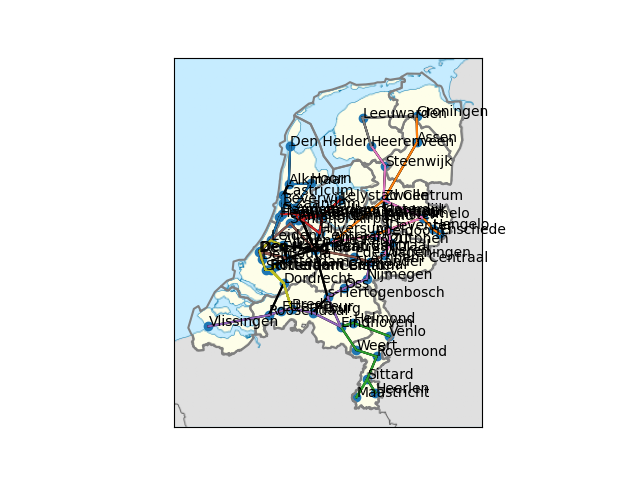
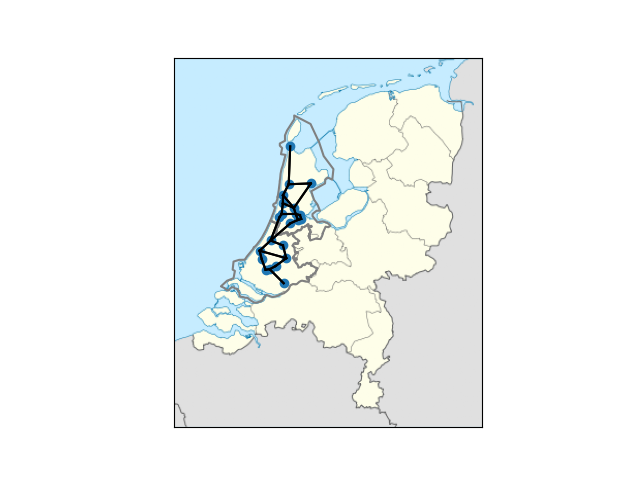
made boxplots for the presentation and pictures of the trajectories to present

Changed region(s): [[0.2812, 0.125, 0.8125, 0.875], [0.3125, 0.7188, 0.375, 0.75], [0.4688, 0.1875, 0.5, 0.2188]]

diff --git a/program/boxplot.py b/program/boxplot.py
@@ -23,63 +23,59 @@ def boxplot(iteration, which_regions = 'holland', start = 'random'):
 
     # run the random algorithm x number of times
     for i in range(iteration):
+        # k = run('greedy_time', which_regions, start)
+        # k1 = run('greedy_conn', which_regions, start)
+        # k2 = run('greedy_time', which_regions, start = 'min_con')
+        # k3 = run('greedy_conn', which_regions, start = 'min_con')
+
+        # k = run('connect', which_regions, start)
+        # k1 = run('connect_with', which_regions, start)
+        # k2 = run('connect', which_regions, start = 'min_con')
+        # k3 = run('connect_with', which_regions, start = 'min_con')
+
         k = run('greedy_time', which_regions, start)
+        k1 = run('greedy_conn', which_regions, start)
+        k2 = run('greedy_time', which_regions, start = 'min_con')
+        k3 = run('greedy_conn', which_regions, start = 'min_con')
 
         # check if the output of the run is viable then append to initialised list
         if k != False:
             solutions.append(k)
             succes += 1
-    
-    # run the random algorithm x number of times
-    for j in range(iteration):
-        k1 = run('greedy_conn', which_regions, start)
-
-        # check if the output of the run is viable then append to initialised list
+        
         if k1 != False:
             solutions1.append(k1)
             succes1 += 1
-    
-    # run the random algorithm x number of times
-    for l in range(iteration):
-        k2 = run('greedy_time', which_regions, start = 'min_con')
-
+        
         # check if the output of the run is viable then append to initialised list
         if k2 != False:
             solutions2.append(k2)
             succes2 += 1
-    
-    # run the random algorithm x number of times
-    for m in range(iteration):
-        k3 = run('greedy_conn', which_regions, start = 'min_con')
-
+        
         # check if the output of the run is viable then append to initialised list
         if k3 != False:
             solutions3.append(k3)
             succes3 += 1
-    
+        
     # calculate the percentage of viable outputted solutions
     percentage_succes = (succes/iteration) * 100
     percentage_succes1 = (succes1/iteration) * 100
     percentage_succes2 = (succes2/iteration) * 100
     percentage_succes3 = (succes3/iteration) * 100
 
-    data = [solutions, solutions1, solutions2, solutions3]
+    data = [solutions, solutions1]
 
     # Creating plot
     plt.boxplot(data, showmeans=True)
 
     # set title and axis descriptions
-    # plt.title(f"Baseline functionality (valid solutions: {percentage_succes} %), {iteration} runs")
+    plt.title(f"Difference in objective function of Random vs Greedy algorithm, for {iteration} runs")
     plt.xlabel("Type algorithm")
     plt.ylabel("K values (objective function output)")
-    plt.xticks([1, 2, 3, 4], [f'Time\n(valid solutions: {percentage_succes})', f'Connections\n(valid solutions: {percentage_succes1})', f'Time +\nstart min con\n(valid solutions: {percentage_succes2})', f'Connections + \nstart min con\n(valid solutions: {percentage_succes3})'])
-
-    # plt.axvline(mean(solutions), color = 'k', linestyle = 'dashed')
-    # min_ylim, max_ylim = plt.ylim()
-    # plt.text(mean(solutions) * 1.01, max_ylim * 0.9, 'Mean: {:.2f}'.format(mean(solutions)))
+    plt.xticks([1, 2], [f'Random algorithm\nRepetition +\nstart min con(valid solutions: {percentage_succes}%)', f'Greedy algorithm\nConnections +\nstart min con\n(valid solutions: {percentage_succes1}%)'])
 
     # save and show the histogram
-    plt.savefig('output/boxplot_greedy.png')
+    plt.savefig('output/boxplot_random_vs_greedy_nl.png')
     plt.show()
 
 def run(algorithm, which_regions = 'holland', start = 'random'):
@@ -123,7 +119,7 @@ def run(algorithm, which_regions = 'holland', start = 'random'):
         trains.append(t.trajectory)
         n.add_trajectory(t)
 
-        if not algorithm == 'hillclimber:'
+        if not algorithm == 'hillclimber':
             # calculate values for the objective function
             p_counter += t.station_counter
             min += t.time
@@ -147,4 +143,5 @@ def run(algorithm, which_regions = 'holland', start = 'random'):
 
         # calculate objective function and return its outcome
         k = p*10000 - (t*100 + min)
+    
     return k

diff --git a/program/visualisation.py b/program/visualisation.py
@@ -8,10 +8,10 @@ def visualize(network, trains, which_region = 'holland'):
 
     if which_region == 'nl':
         geo_json_file = 'data/nl_regions.geojson'
-        save_plot = 'output/holland_plot.png'
+        save_plot = 'output/nl_plot_con.png'
     elif which_region == 'holland':
         geo_json_file ='data/holland_regions.geojson'
-        save_plot = 'output/holland_plot.png'
+        save_plot = 'output/holland_plot_con.png'
     
     # intialize empty lists for the plotting
     names = []
@@ -77,9 +77,9 @@ def visualize(network, trains, which_region = 'holland'):
     x,y = zip(*coords)
     plt.scatter(x, y)
         
-    # add names of the stations to the points
-    for index, label in enumerate(names):
-        plt.annotate(label,(x[index], y[index]))
+    # # add names of the stations to the points
+    # for index, label in enumerate(names):
+    #     plt.annotate(label,(x[index], y[index]))
         
     # save plot
     plt.savefig(save_plot)

diff --git a/main.py b/main.py
@@ -5,19 +5,19 @@ from program.boxplot import boxplot
 
 from program.algorithm import run
 
-run()
-# # create a network and run the algorithm
-# # you can fill in 'nl' if you want to calculate trajectory for the whole netherlands
-# # you can fill in 'min_con' if you want to start the trajectories at stations with minimal connections
-# data_tuple = run('nl', 'min_con')
+# run()
+# create a network and run the algorithm
+# you can fill in 'nl' if you want to calculate trajectory for the whole netherlands
+# you can fill in 'min_con' if you want to start the trajectories at stations with minimal connections
+data_tuple = run()
 
-# # save data from the run
-# n = data_tuple[0]
-# trains = data_tuple[1]
+# save data from the run
+n = data_tuple[0]
+trains = data_tuple[1]
 
-# # visualize the data
-# visualize(n, trains, 'nl')
+# visualize the data
+visualize(n, trains)
 
 # hist(1000)
 
-boxplot(1000, 'nl')
+# boxplot(1000, 'nl')

diff --git a/program/algorithm.py b/program/algorithm.py
@@ -62,6 +62,6 @@ def run(which_regions = 'holland', start = 'random'):
         k = p*10000 - (t*100 + min)
         writer.writerow(["score", k])
 
-    climb_hill(n, 100, which_regions, start)
+    # climb_hill(n, 100, which_regions, start)
 
     return n, trains
